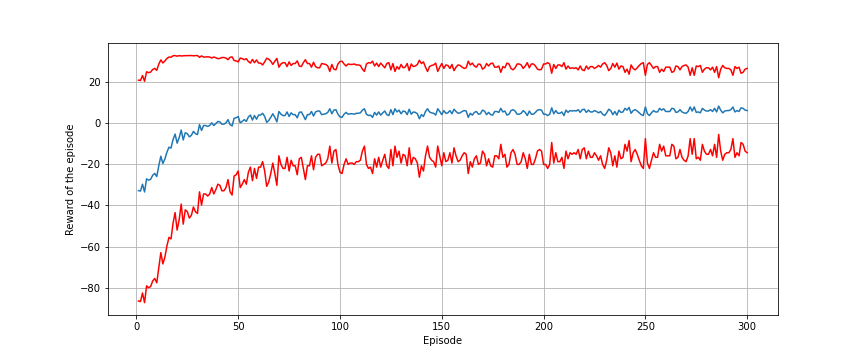
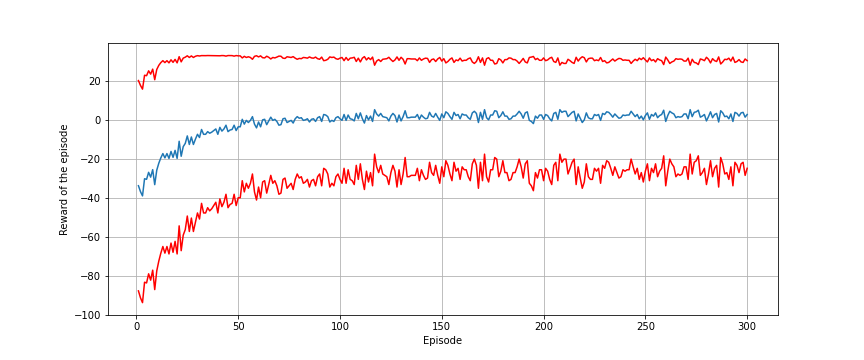
update algos for value function evolution and many plots

diff --git a/rl_algorithms.py b/rl_algorithms.py
@@ -608,7 +608,7 @@ class GridWorld(object):
     
     Monte Carlo control to find the best policy ! See slide 202 of the lecture note for the algorithm. 
     """
-    def montecarlo_on_control(self, epsilon_init=0.05, decay_speed=0, decay_smooth=1, discount=0.9, learning_rate=1, threshold=0.0001, max_epoch=100, random_start=True, risky_start=False):
+    def montecarlo_on_control(self, epsilon_init=0.05, decay_speed=0, decay_smooth=1, discount=0.9, learning_rate=1, threshold=0.0001, max_epoch=100, random_start=True, risky_start=True):
         ## Slide 202 of the lecture notes for the algorithm ##
         
         rng = np.random.default_rng()
@@ -616,7 +616,10 @@ class GridWorld(object):
         Q = rng.uniform(-1, 1, size=(self.state_size, self.action_size))
 
         # initialize N, the number of occurence of each (s, a) couple
-        N = np.zeros((self.state_size, self.action_size), dtype=int)
+        #N = np.zeros((self.state_size, self.action_size), dtype=int)
+
+        # Let's store V episodes after episodes
+        value_functions = np.array([np.max(Q, axis=1)])
         
         # Initialisation
         epochs = 0
@@ -641,9 +644,11 @@ class GridWorld(object):
                     pass
                 else:
                     tabu += [(s, a)]
-                    N[s, a] += 1
+                    #N[s, a] += 1
                     G = sum([(discount**i) * r for i, r in enumerate(trace[(3*i+2)::3])])
-                    Q[s, a] = Q[s, a] + (learning_rate / N[s, a]) * (G - Q[s, a])
+                    Q[s, a] = Q[s, a] + (learning_rate) * (G - Q[s, a])
+
+            value_functions = np.concatenate((value_functions, [np.max(Q, axis=1)]), axis=0)
 
         # When the loop is finished, fill in the optimal policy
         optimal_policy = np.zeros((self.state_size, self.action_size)) # Initialisation
@@ -653,14 +658,14 @@ class GridWorld(object):
             # The action that maximises the Q value gets probability 1
             optimal_policy[state_idx, np.argmax(Q[state_idx, :])] = 1 
 
-        return Q, optimal_policy, epochs, rewards
+        return Q, optimal_policy, epochs, rewards, value_functions
     
     """
         sarsa_on_td_control(self, epsilon=0.05, discount=0.9, learning_rate=0.3, threshold=0.0001, max_epoch=100)
     
     SARSA algo : on-policy Temporal Difference learning. See slide 212 for the algo !
     """
-    def sarsa_on_td_control(self, epsilon_init=0.05, decay_speed=0, decay_smooth=1, discount=0.9, learning_rate=0.3, threshold=0.0001, max_epoch=100):
+    def sarsa_on_td_control(self, epsilon_init=0.05, decay_speed=0, decay_smooth=1, discount=0.9, learning_rate=0.3, threshold=0.0001, max_epoch=100, random_start=True, risky_start=True):
         ## Slide 212 of the lecture notes for the algorithm ##
         
         rng = np.random.default_rng()
@@ -670,6 +675,9 @@ class GridWorld(object):
         # because of the update rule, Q[absorbing_state, :] must be set to 0
         abs_idxs = np.where(self.absorbing[0] == 1)[0]
         Q[abs_idxs, :] = np.zeros(Q.shape[1])
+
+        # Let's store V episodes after episodes
+        value_functions = np.array([np.max(Q, axis=1)])
         
         # Initialisation
         epochs = 0
@@ -684,7 +692,7 @@ class GridWorld(object):
             epsilon = (decay_smooth / (decay_smooth + decay_speed * epochs)) * epsilon_init
 
             # initialise state and take first action
-            s = self.initial_state(rng, random=True)
+            s = self.initial_state(rng, random=random_start, risk=risky_start)
             a = self.action_choice(s, Q, rng, epsilon)
 
             # sum of rewards in the episode (for plots)
@@ -714,6 +722,7 @@ class GridWorld(object):
                 keep_runing = (self.absorbing[0, s] == 0)
 
             rewards += [R]
+            value_functions = np.concatenate((value_functions, [np.max(Q, axis=1)]), axis=0)
 
         # When the loop is finished, fill in the optimal policy
         optimal_policy = np.zeros((self.state_size, self.action_size)) # Initialisation
@@ -723,6 +732,6 @@ class GridWorld(object):
             # The action that maximises the Q value gets probability 1
             optimal_policy[state_idx, np.argmax(Q[state_idx, :])] = 1 
 
-        return Q, optimal_policy, epochs, rewards
+        return Q, optimal_policy, epochs, rewards, value_functions
     
 ###########################################         
